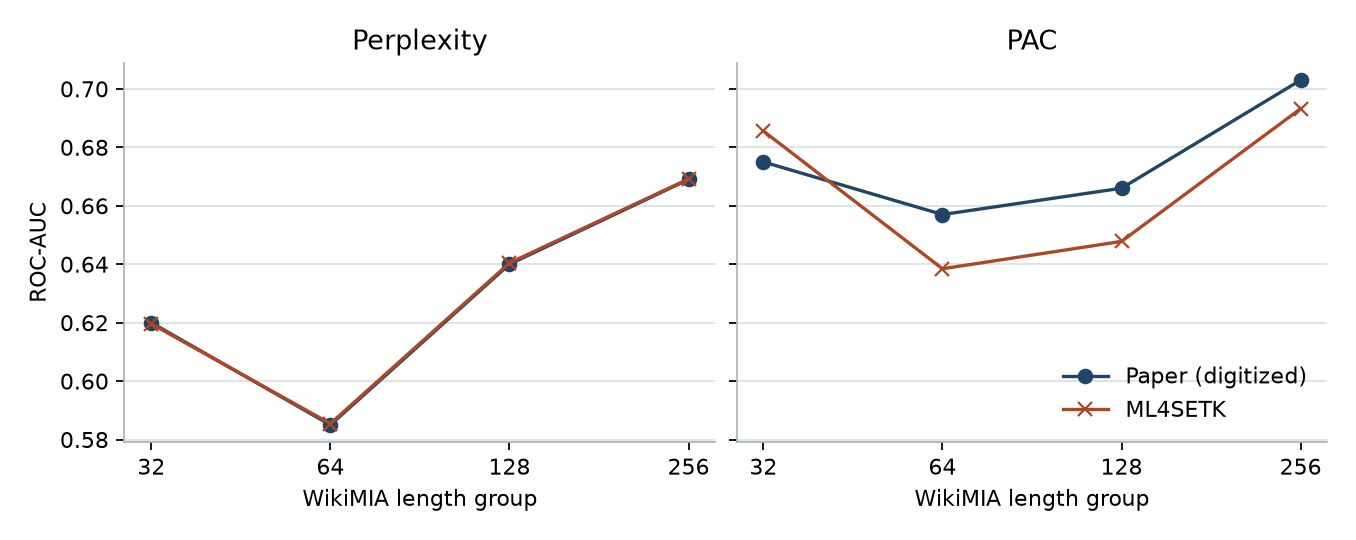
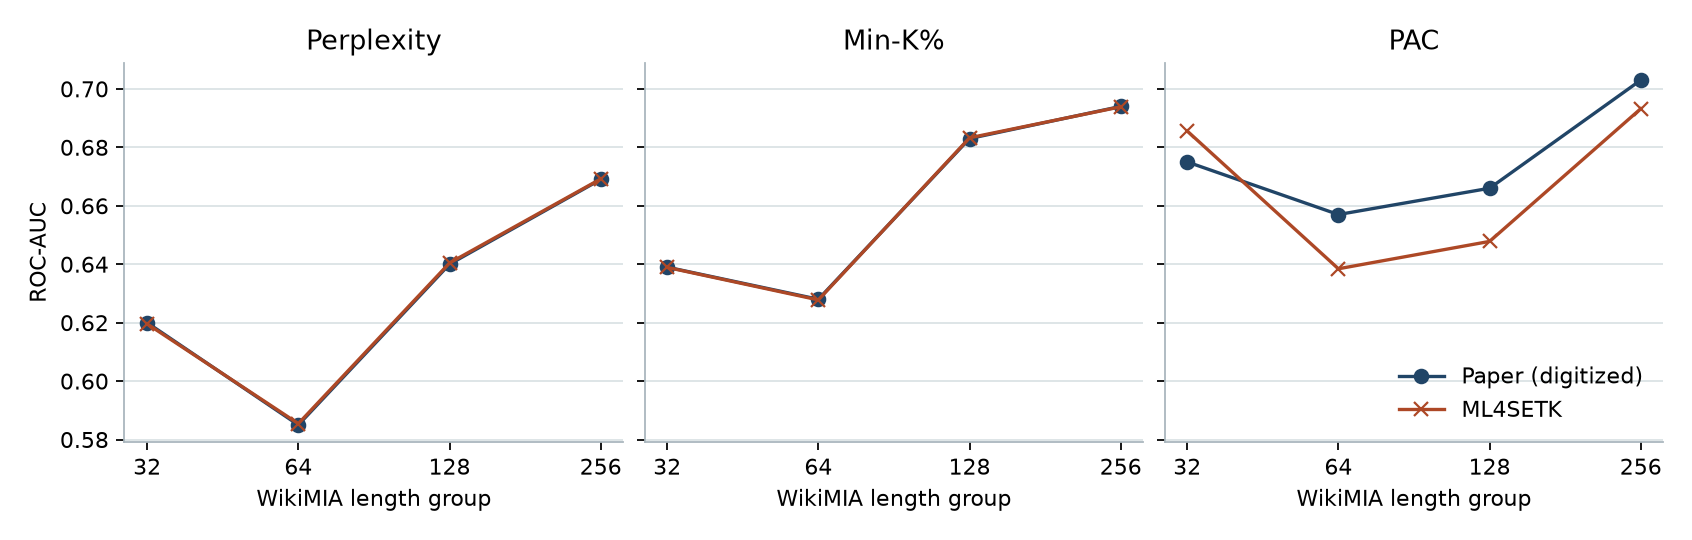
Document the original Min-K% study and the separate PAC baseline results

diff --git a/docs/reproduction_reports/ml4setk/MIA/pac/index.md b/docs/reproduction_reports/ml4setk/MIA/pac/index.md
@@ -1,6 +1,6 @@
 # PAC reproduction report
 
-[Source module `ml4setk.MIA.pac`](https://github.com/jkatzy/ML4SE-toolkit/blob/fdd40a7/src/ml4setk/MIA/pac.py) · [Reproduction script](https://github.com/jkatzy/ML4SE-toolkit/blob/65fdb41/reproductions/ml4setk/MIA/test_pac.py)
+[Source module `ml4setk.MIA.pac`](https://github.com/jkatzy/ML4SE-toolkit/blob/fdd40a7/src/ml4setk/MIA/pac.py) · [Reproduction script](https://github.com/jkatzy/ML4SE-toolkit/blob/d92635c/reproductions/ml4setk/MIA/test_pac.py)
 
 *Data Contamination Calibration for Black-box LLMs*. Wentao Ye, Jiaqi Hu, Liyao Li, Haobo Wang, Gang Chen, and Junbo Zhao. Findings of ACL 2024. [Paper](https://doi.org/10.18653/v1/2024.findings-acl.644)
 
@@ -23,28 +23,29 @@ The paper reports a ROC-AUC increase of **0.050** from perplexity to PAC. ML4SET
 | Method | Paper ROC-AUC | ML4SETK ROC-AUC |
 | --- | ---: | ---: |
 | Perplexity | 0.616 | 0.615686950 |
+| Min-K% | 0.648 | 0.648345647 |
 | PAC | 0.666 | 0.663491475 |
 
-The closest published baseline in this row is Min-K% at 0.648. Its ML4SETK measurement is pending, so this run checks the gain over perplexity only. For ROC-AUC, the toolkit follows the authors’ released evaluator, which negates the raw PAC scores. Algorithm 1 in the paper presents a greater-than threshold on the raw score. The comparison above checks ranking under the released evaluator’s convention. [Table 1 and Algorithm 1](https://aclanthology.org/2024.findings-acl.644.pdf) · [Authors’ evaluation code](https://github.com/yyy01/PAC/blob/79c6eca14fed3a64a7a4201cdca263de52501dae/attack.py#L44-L49)
+Against Min-K%, the closest published baseline in this row, PAC gains 0.018 ROC-AUC in the paper and 0.015146 in the fresh run. The baseline uses the bottom 20% of token log probabilities, as specified in Appendix E.3. For ROC-AUC, the toolkit follows the authors’ released evaluator, which negates the raw PAC scores. Algorithm 1 in the paper presents a greater-than threshold on the raw score. The comparison above checks ranking under the released evaluator’s convention. [Table 1 and Algorithm 1](https://aclanthology.org/2024.findings-acl.644.pdf) · [Authors’ evaluation code](https://github.com/yyy01/PAC/blob/79c6eca14fed3a64a7a4201cdca263de52501dae/attack.py#L44-L49)
 
-![WikiMIA ROC-AUC for perplexity and PAC in the paper and the ML4SETK run.](figures/pac_table1.png)
+![WikiMIA ROC-AUC for perplexity, Min-K%, and PAC in the paper and the ML4SETK run.](figures/pac_table1.png)
 
 The run used float32 weights, five word-swap variants per text, and the highest 5% and lowest 30% of next-token log probabilities. The script computes scores from model outputs and calls ML4SETK’s PAC and loss evaluators for ROC-AUC. It used seed 42. The authors’ realized draws were unavailable. [Table 1 comparison data (CSV)](data/pac_table1.csv) · [Dataset revision](https://huggingface.co/datasets/swj0419/WikiMIA/tree/a89ab76d88f704e9bc5870ac39cc9d458a2a70ac) · [Model revision](https://huggingface.co/EleutherAI/gpt-neo-2.7B/tree/e24fa291132763e59f4a5422741b424fb5d59056)
 
 ## Figure 7 · GPT-Neo on WikiMIA by text length
 
-The fresh run scored all 1,650 original WikiMIA texts on one NVIDIA A40. Each of the four perplexity AUCs agrees with the published curve at three decimals. PAC is higher than the plotted value in the 32 group and lower in the other three groups. The largest gap is in the 64 group, where the run gives 0.6384 and the digitized curve gives about 0.6566. The pooled point in Figure 7 uses all texts and is reported in the Table 1 comparison above.
+The fresh run scored all 1,650 original WikiMIA texts on one NVIDIA A40. All four perplexity AUCs and all four Min-K% AUCs agree with the corresponding digitized curves at three decimals. PAC is higher than the plotted value in the 32 group and lower in the other three groups. The largest gap is in the 64 group, where the run gives 0.6384 and the digitized curve gives about 0.6566. The pooled point in Figure 7 uses all texts and is reported in the Table 1 comparison above.
 
-| Length | Paper perplexity | ML4SETK perplexity | Paper PAC | ML4SETK PAC |
-| ---: | ---: | ---: | ---: | ---: |
-| 32 | 0.620 | 0.619584 | 0.675 | 0.685578 |
-| 64 | 0.585 | 0.585449 | 0.657 | 0.638443 |
-| 128 | 0.640 | 0.640417 | 0.666 | 0.647806 |
-| 256 | 0.669 | 0.669197 | 0.703 | 0.693232 |
+| Length | Paper perplexity | ML4SETK perplexity | Paper Min-K% | ML4SETK Min-K% | Paper PAC | ML4SETK PAC |
+| ---: | ---: | ---: | ---: | ---: | ---: | ---: |
+| 32 | 0.620 | 0.619584 | 0.639 | 0.638907 | 0.675 | 0.685578 |
+| 64 | 0.585 | 0.585449 | 0.628 | 0.627784 | 0.657 | 0.638443 |
+| 128 | 0.640 | 0.640417 | 0.683 | 0.683259 | 0.666 | 0.647806 |
+| 256 | 0.669 | 0.669197 | 0.694 | 0.693865 | 0.703 | 0.693232 |
 
-![Published and measured ROC-AUC for GPT-Neo across four WikiMIA length groups, in separate perplexity and PAC panels.](figures/pac_figure7_gpt_neo.png)
+![Published and measured ROC-AUC for GPT-Neo across four WikiMIA length groups, in separate perplexity, Min-K%, and PAC panels.](figures/pac_figure7_gpt_neo.png)
 
-Paper values are approximate. The figure check reads the PPL and Ours line vertices against the GPT-Neo panel’s y-axis tick marks in the proceedings PDF and rounds to three decimals. The new measurements use the same seed and checkpoint as the pooled run. [Paired values (CSV)](data/pac_figure7_gpt_neo.csv) · [Published Figure 7](https://aclanthology.org/2024.findings-acl.644.pdf#page=16)
+Paper values are approximate. The figure check reads the PPL, Min-K%, and Ours line vertices against the GPT-Neo panel’s y-axis tick marks in the proceedings PDF and rounds to three decimals. The new measurements use the same seed and checkpoint as the pooled run. [Paired values (CSV)](data/pac_figure7_gpt_neo.csv) · [Published Figure 7](https://aclanthology.org/2024.findings-acl.644.pdf#page=16)
 
 ## Table 1 mean improvements
 
@@ -59,7 +60,7 @@ The authors give a relative gain over the strongest baseline for each dataset an
 
 ## Coverage of the original paper
 
-**Partial reproduction.** The comparison above covers two of the 224 model-specific AUC values in Table 1. Each dataset has eight evaluated models, two text variants and seven methods. The mean rows and improvement percentages are derived summaries. The CPU checks independently reproduce the cohort counts in Tables 5 and 6. All seven empirical figures in the paper still have experiments pending. No hardware exception has been established. [Published figures, tables, and appendices](https://aclanthology.org/2024.findings-acl.644.pdf)
+**Partial reproduction.** The comparison above covers three of the 224 model-specific AUC values in Table 1. Each dataset has eight evaluated models, two text variants and seven methods. The mean rows and improvement percentages are derived summaries. The CPU checks independently reproduce the cohort counts in Tables 5 and 6. All seven empirical figures in the paper still have experiments pending. No hardware exception has been established. [Published figures, tables, and appendices](https://aclanthology.org/2024.findings-acl.644.pdf)
 
 | Published item | Experiment or evidence | Current coverage |
 | --- | --- | --- |
@@ -69,9 +70,9 @@ The authors give a relative gain over the strongest baseline for each dataset an
 | Figure 4 | Whole-sample and output-only detection after five epochs of LLaMA-13B fine-tuning on Platypus | Pending |
 | Figure 5 | GPT-3 contamination estimates for selected TOXIGEN examples | Pending |
 | Figure 6 | Detection score and sentiment on WikiMIA and StackMIA | Pending. Appendix G gives the plotted axes but no sentiment model or per-example values. |
-| Figure 7 | WikiMIA AUC by model, method, and text length | GPT-Neo perplexity and PAC curves measured below. Other methods and model panels remain pending. |
+| Figure 7 | WikiMIA AUC by model, method, and text length | GPT-Neo perplexity, Min-K%, and PAC curves measured above. Other methods and model panels remain pending. |
 | Figure 8 | StackMIAsub AUC by model, method, and text length | StackMIAsub inference is pending. The published plot repeats all 48 curves from Figure 7, including the same axis labels. |
-| Table 1 | Detection AUC across models, methods, datasets, and original or rewritten inputs | Two model-specific cells measured. Four published mean gains checked arithmetically above. |
+| Table 1 | Detection AUC across models, methods, datasets, and original or rewritten inputs | Three model-specific cells measured. Four published mean gains checked arithmetically above. |
 | Table 2 | Five augmentation settings and five score choices on each dataset | Both ablations pending |
 | Table 3 | Threshold selection on subsets from 10% to 50% in five-percentage-point steps | Accuracy and threshold variability pending |
 | Table 4 | Four GPT models on GSM8K, AQuA, and TOXIGEN | All four weighted averages checked below. Per-example model measurements pending. |
@@ -131,7 +132,7 @@ uv pip install --python /tmp/ml4setk-repro/bin/python -e . pytest==9.0.2 \
 /tmp/ml4setk-repro/bin/python -m pytest -o addopts= -qs reproductions/ml4setk/MIA/test_pac.py
 ```
 
-For the arithmetic and example provenance checks, use the original paper and the same pinned StackMIAsub file. The table checker uses Python 3 and Poppler’s `pdftotext`. The figure checker reads the vector paths in the same PDF using PyMuPDF. [Table check script](https://github.com/jkatzy/ML4SE-toolkit/blob/65fdb41/reproductions/ml4setk/MIA/check_pac_tables.py) · [Figure check script](https://github.com/jkatzy/ML4SE-toolkit/blob/65fdb41/reproductions/ml4setk/MIA/check_pac_figures.py)
+For the arithmetic and example provenance checks, use the original paper and the same pinned StackMIAsub file. The table checker uses Python 3 and Poppler’s `pdftotext`. The figure checker reads the vector paths in the same PDF using PyMuPDF. [Table check script](https://github.com/jkatzy/ML4SE-toolkit/blob/65fdb41/reproductions/ml4setk/MIA/check_pac_tables.py) · [Figure check script](https://github.com/jkatzy/ML4SE-toolkit/blob/d92635c/reproductions/ml4setk/MIA/check_pac_figures.py)
 
 ```bash
 curl -fL https://aclanthology.org/2024.findings-acl.644.pdf -o /tmp/pac-acl.pdf

diff --git a/docs/reproduction_reports/ml4setk/MIA/min_k/index.md b/docs/reproduction_reports/ml4setk/MIA/min_k/index.md
@@ -1,0 +1,63 @@
+# Min-K% Prob reproduction report
+
+Weijia Shi, Anirudh Ajith, Mengzhou Xia, Yangsibo Huang, Daogao Liu, Terra Blevins, Danqi Chen, and Luke Zettlemoyer. *Detecting Pretraining Data from Large Language Models*. ICLR 2024. [Proceedings](https://proceedings.iclr.cc/paper_files/paper/2024/hash/e32ad85fa27be4a9868d55703f01323e-Abstract-Conference.html) · [Toolkit module](https://github.com/jkatzy/ML4SE-toolkit/blob/d92635c/src/ml4setk/MIA/min_k.py) · [Reproduction script](https://github.com/jkatzy/ML4SE-toolkit/blob/d92635c/reproductions/ml4setk/MIA/test_min_k.py)
+
+## Pythia-2.8B on original WikiMIA
+
+Both Min-K% measurements agree with the published Pythia-2.8B original-text column at the precision printed in the paper. The perplexity control also recovers the published true-positive rate, but gives a higher ROC-AUC. The paper reports a 0.06 AUC gain over perplexity. This run measured 0.040443. [Table 1 and Appendix Table 5](https://proceedings.iclr.cc/paper_files/paper/2024/file/e32ad85fa27be4a9868d55703f01323e-Paper-Conference.pdf) · [Comparison data (CSV)](data/pythia_original.csv)
+
+| Method | Table 1 ROC-AUC | ML4SETK ROC-AUC | Table 5 TPR at 5% FPR | ML4SETK TPR at 5% FPR |
+| --- | ---: | ---: | ---: | ---: |
+| Min-K% Prob, k = 20 | 0.67 | 0.668546 | 13.7% | 13.67% (19/139) |
+| Perplexity | 0.61 | 0.628103 | 9.4% | 9.35% (13/139) |
+
+![Published and measured ROC-AUC and true-positive rate for Min-K% and perplexity on Pythia-2.8B.](figures/pythia_original.png)
+
+**Cohort assumption.** The table captions identify the original-text setting and model, but omit the length group and model revision. We used the length-128 group, which the authors also use for their model-size analysis. The resulting counts recover both published TPRs after rounding. That agreement leaves the exact original table cohort unconfirmed. We scored every original length group separately so the effect of this choice is visible.
+
+| WikiMIA length group | Members / nonmembers | Min-K% ROC-AUC | Perplexity ROC-AUC | Min-K% TPR | Perplexity TPR |
+| ---: | ---: | ---: | ---: | ---: | ---: |
+| 32 | 387 / 389 | 0.616847 | 0.613705 | 16.54% | 14.73% |
+| 64 | 284 / 258 | 0.612007 | 0.584371 | 18.31% | 10.21% |
+| 128 | 139 / 111 | 0.668546 | 0.628103 | 13.67% | 9.35% |
+| 256 | 51 / 31 | 0.699557 | 0.678052 | 7.84% | 3.92% |
+
+The script scores all 1,650 released texts with the pinned Pythia-2.8B model and tokenizer, one text at a time in float32 evaluation mode. It gathers each observed token’s log probability from the preceding position and omits the first token. The Min-K% score is the mean of the lowest 20%. The perplexity control ranks examples by mean log probability, which has the same ordering as increasing evidence from lower perplexity. We compute ROC-AUC from the labeled cohorts and report the highest TPR reached at FPR strictly below 0.05, following the authors’ evaluator. There is no sampling or fitted threshold in this run. [WikiMIA revision](https://huggingface.co/datasets/swj0419/WikiMIA/tree/a89ab76d88f704e9bc5870ac39cc9d458a2a70ac) · [Pythia revision](https://huggingface.co/EleutherAI/pythia-2.8b/tree/2a259cdd96a4beb1cdf467512e3904197345f6a9) · [Authors’ evaluator](https://github.com/swj0419/detect-pretrain-code/blob/a5048f93c4fa6491aab0638bb3e6fd5a662d7698/src/eval.py)
+
+## Run the toolkit method
+
+Install the toolkit from the repository root with `python -m pip install .`. The API takes one example’s observed-token natural log probabilities. The paper uses `k_percent=20`. Here the selected two values are −4 and −3.
+
+```python
+from ml4setk.MIA import min_k_score
+
+log_probs = [-0.25, -4, -0.5, -2, -1, -0.75, -3, -1.5, -0.1, -0.8]
+print(min_k_score(log_probs))  # -3.5
+```
+
+The toolkit rounds the token count down as in the released artifact. If the selected tail is empty, the API raises `ValueError`. Higher scores favor membership. The function accepts probabilities from any compatible model output. The linked benchmark supplies the paper checkpoint for the Pythia comparison. [Equation 1 and §4.3](https://proceedings.iclr.cc/paper_files/paper/2024/file/e32ad85fa27be4a9868d55703f01323e-Paper-Conference.pdf) · [Authors’ scoring code](https://github.com/swj0419/detect-pretrain-code/blob/a5048f93c4fa6491aab0638bb3e6fd5a662d7698/src/run.py)
+
+## Reproduce the measurements
+
+Run from the repository root. The first invocation needs the public checkpoint and dataset downloads. The run used one NVIDIA A40. The script prints the two metrics for each length group and tests the four published values separately. Three checks pass. The perplexity Table 1 check fails because the measured AUC rounds to 0.63.
+
+```bash
+uv venv --python 3.13 /tmp/ml4setk-min-k
+uv pip install --python /tmp/ml4setk-min-k/bin/python -e . pytest==9.2.0 \
+  torch==2.8.0 transformers==4.55.4 huggingface-hub==0.36.2 \
+  pyarrow==25.0.0 scikit-learn==1.9.1
+/tmp/ml4setk-min-k/bin/python -m pytest -o addopts= -qs reproductions/ml4setk/MIA/test_min_k.py
+```
+
+## Coverage of the original paper
+
+| Published item | Experiment | Coverage |
+| --- | --- | --- |
+| Figure 1, Equation 1, Algorithm 1 | Score definition and method diagram | Public numerical API and deterministic tests cover the selected token tail, rounding, and score direction. |
+| Tables 1 and 5 | Five models, original and paraphrased WikiMIA, six methods | Pythia-2.8B original text measured for Min-K% and perplexity. Other baselines, models, paraphrases, and the paper’s overall average remain open. |
+| §4.3 and Figure 2 | Held-out k selection, LLaMA model-size and text-length sweeps | Pending. The Pythia length results above are additional measurements. |
+| Figures 3 and 4, Table 2 | GPT-3 book validation and contamination rates | Pending. |
+| Tables 3, 4, 6 and 7, Figure 5 | Downstream contamination, occurrence frequency, dataset size, learning rate, and task accuracy | Pending. |
+| Tables 8 and 9 | Evaluation prompt and completion examples | Qualitative materials. The associated completion evaluation remains open. |
+
+This is a partial reproduction. No hardware exception has been established for outstanding comparisons.

diff --git a/docs/membership_inference.md b/docs/membership_inference.md
@@ -9,6 +9,7 @@ benchmark adapter implements this interface for Loss, PAC, and AST-PAC.
 Each report pairs an original paper’s results with ML4SETK measurements and links to the script and inputs for that study.
 
 - [Yeom et al. (CSF 2018), loss threshold and the Figure 2b theoretical curve](reproduction_reports/ml4setk/MIA/loss/index.md)
+- [Shi et al. (ICLR 2024), Min-K% Prob on WikiMIA](reproduction_reports/ml4setk/MIA/min_k/index.md)
 - [Ye et al. (Findings of ACL 2024), PAC and perplexity on WikiMIA](reproduction_reports/ml4setk/MIA/pac/index.md)
 - [Koohestani et al. (FSE Companion 2026), AST-PAC and both Java baselines](reproduction_reports/ml4setk/MIA/ast_pac/index.md)
 
@@ -88,6 +89,21 @@ outputs, and notebooks from the deposit are not bundled. Direct redistribution
 of covered material would require attribution, a license link and change
 indications where applicable. The deposit's grant extends only to rights its
 licensor can grant. [Paper and rights](https://research.tudelft.nl/en/publications/ast-pac-ast-guided-membership-inference-for-code/) · [Software rights record](https://api.datacite.org/dois/10.5281/zenodo.18348152) · [CC BY 4.0 terms](https://creativecommons.org/licenses/by/4.0/)
+
+## Min-K% Prob
+
+Weijia Shi, Anirudh Ajith, Mengzhou Xia, Yangsibo Huang, Daogao Liu, Terra Blevins, Danqi Chen, and Luke Zettlemoyer introduced Min-K% Prob in *Detecting Pretraining Data from Large Language Models*, ICLR 2024. Ye et al. later evaluated it as a baseline for PAC. [Original paper](https://proceedings.iclr.cc/paper_files/paper/2024/hash/e32ad85fa27be4a9868d55703f01323e-Abstract-Conference.html) · [PAC paper](https://aclanthology.org/2024.findings-acl.644/)
+
+Pass one example’s observed-token natural log probabilities, omitting padding and positions without a prediction. The function returns the mean of the lowest k percent, with a higher score favoring membership. It defaults to the paper’s 20%. Use `evaluate_membership_scores` to compare scores from labeled cohorts. [Min-K% reproduction report](reproduction_reports/ml4setk/MIA/min_k/index.md)
+
+```python
+from ml4setk.MIA import min_k_score
+
+log_probs = [-0.25, -4, -0.5, -2, -1, -0.75, -3, -1.5, -0.1, -0.8]
+print(min_k_score(log_probs))  # -3.5
+```
+
+**Rights and reuse.** ML4SETK implements Equation 1 independently. The unit fixtures are original synthetic values. The authors’ Apache-2.0 repository supplies the rounding and evaluation conventions. The toolkit license file declares Apache-2.0 and its distribution metadata declares MIT. This addition ships original code, original plots, and aggregate comparisons. The reproduction fetches WikiMIA (dataset card: MIT) and Pythia-2.8B (model card: Apache-2.0) externally. [Pinned authors’ code and license](https://github.com/swj0419/detect-pretrain-code/tree/a5048f93c4fa6491aab0638bb3e6fd5a662d7698) · [Dataset card](https://huggingface.co/datasets/swj0419/WikiMIA/blob/a89ab76d88f704e9bc5870ac39cc9d458a2a70ac/README.md) · [Model card](https://huggingface.co/EleutherAI/pythia-2.8b/blob/2a259cdd96a4beb1cdf467512e3904197345f6a9/README.md)
 
 ## PAC baseline
 

diff --git a/docs/reproduction_reports/ml4setk/MIA/index.md b/docs/reproduction_reports/ml4setk/MIA/index.md
@@ -5,17 +5,19 @@ Each report pairs one paper’s figures or tables with measurements from ML4SETK
 | Study and comparison | Metric | Paper | ML4SETK |
 | --- | --- | ---: | ---: |
 | [Loss · Yeom et al., Figure 2b](loss/index.md), standard deviation ratio 8 | Theoretical / measured membership advantage | 0.583213 | 0.5832 |
+| [Min-K% · Shi et al., Table 1](min_k/index.md), Pythia-2.8B on original WikiMIA | ROC-AUC | 0.67 | 0.668546 |
 | [PAC · Ye et al., Table 1](pac/index.md), GPT-Neo on original WikiMIA | ROC-AUC | 0.666 | 0.663491 |
 | [AST-PAC · Koohestani et al., RQ3](ast_pac/index.md), StarCoder2-3B, Mid-Low stratum, exact members | ROC-AUC | 0.610 | 0.609604 |
 
-## Coverage across the three papers
+## Coverage across the papers
 
-All three independent reproductions are partial. None has a documented hardware exception.
+Each independent reproduction has outstanding experiments. None has a documented hardware exception.
 
 | Paper | Available measurements | Outstanding coverage |
 | --- | --- | --- |
 | [Loss inventory](loss/index.md#coverage-of-the-original-paper) | Four points on the Figure 2b theoretical curve | All empirical panels and Table I |
-| [PAC inventory](pac/index.md#coverage-of-the-original-paper) | Two Table 1 AUCs, two GPT-Neo series in Figure 7, and all cohort counts in Tables 5 and 6 | Other model conditions and figures, ablation and threshold experiments, and raw hosted-model measurements |
+| [Min-K% inventory](min_k/index.md#coverage-of-the-original-paper) | Pythia-2.8B original WikiMIA, Min-K% and perplexity AUC and low-FPR TPR. The perplexity AUC differs from Table 1. | Other models and baselines, paraphrases, LLaMA sweeps, book and downstream experiments |
+| [PAC inventory](pac/index.md#coverage-of-the-original-paper) | Three Table 1 AUCs, three GPT-Neo series in Figure 7, and all cohort counts in Tables 5 and 6 | Other model conditions and figures, ablation and threshold experiments, and raw hosted-model measurements |
 | [AST-PAC inventory](ast_pac/index.md#coverage-of-the-original-paper) | All published figures and tables have historical comparisons across the benchmark. Four models also scored fixed AST edits. | Fully independent fresh AST generation and individual values for 14 fixed-neighbor comparisons |
 
 To redraw these figures from the included CSVs, run `uv run --with matplotlib python reproductions/ml4setk/MIA/plot_reports.py` from the repository root.

diff --git a/docs/reproduction_reports/index.md b/docs/reproduction_reports/index.md
@@ -4,7 +4,7 @@ Reports follow the Python module path under `src/`. Each paper-backed module has
 
 | Source package | Module reports |
 | --- | --- |
-| [ml4setk.MIA](ml4setk/MIA/index.md) | [loss](ml4setk/MIA/loss/index.md) · [pac](ml4setk/MIA/pac/index.md) · [ast_pac](ml4setk/MIA/ast_pac/index.md) |
+| [ml4setk.MIA](ml4setk/MIA/index.md) | [loss](ml4setk/MIA/loss/index.md) · [min_k](ml4setk/MIA/min_k/index.md) · [pac](ml4setk/MIA/pac/index.md) · [ast_pac](ml4setk/MIA/ast_pac/index.md) |
 
 ## Adding a paper
 

diff --git a/agents/ml4setk/reproduction.md b/agents/ml4setk/reproduction.md
@@ -40,4 +40,4 @@ that a user can run from an installed ML4SE-TK package on their own inputs.
    comparison pending.
 
 The [MIA reports](../../docs/reproduction_reports/ml4setk/MIA/index.md)
-show how one package uses this shared role for three independent papers.
+show how one package uses this shared role for independent papers.
